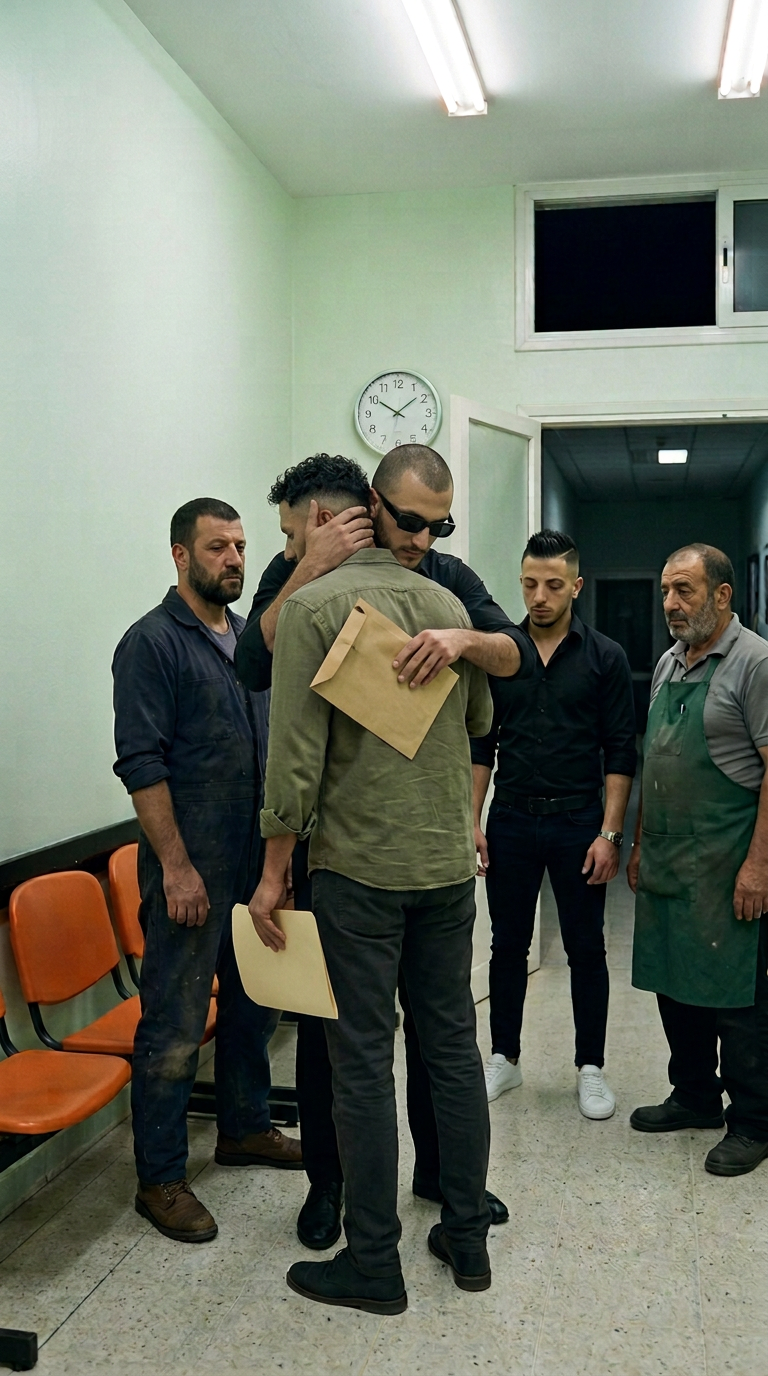
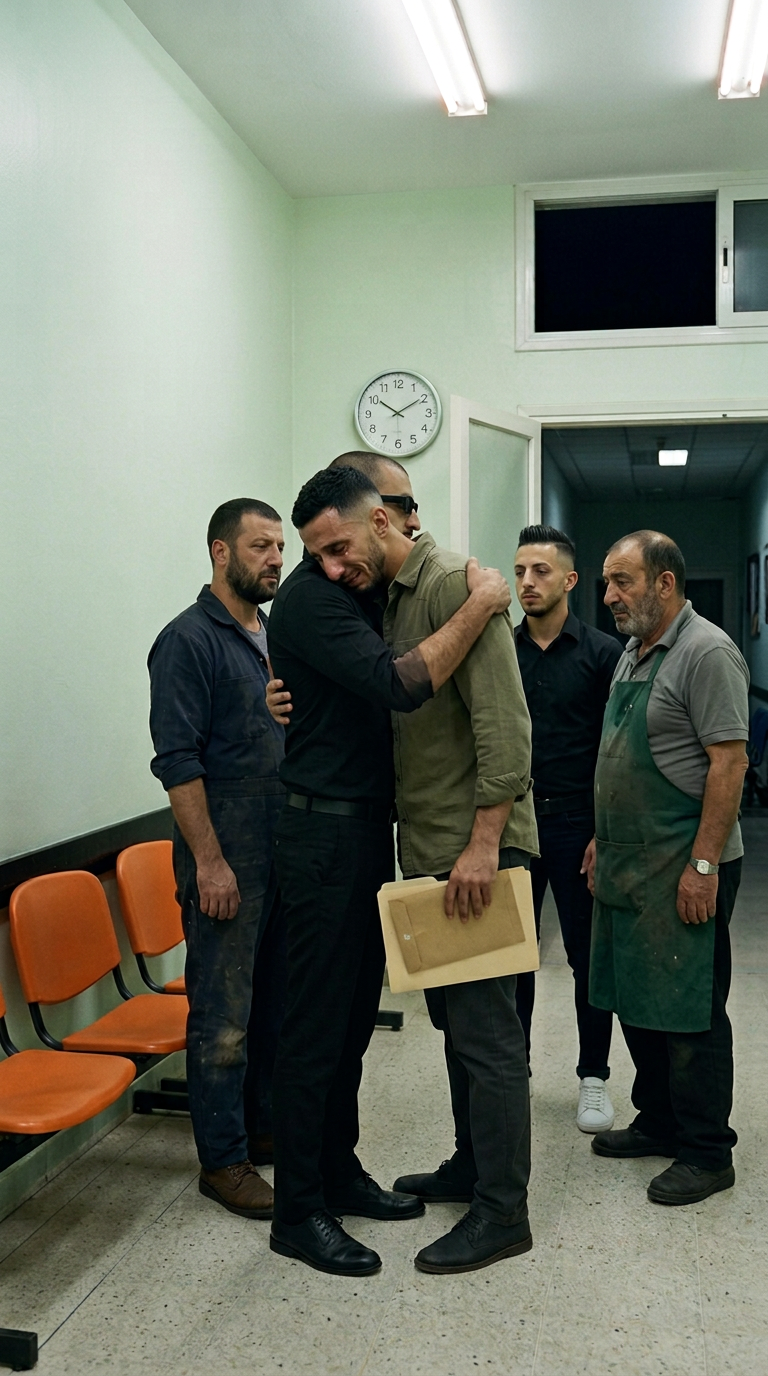
Scene 11 emotional upgrade: Youssef hug -> Uncle Hamza hug, Amin holding both envelopes in one hand + tearfulDarija prompt

diff --git a/SOCIAL_DRAMA/EL_SHEDDA_TBEYEN_ERDJAL/03_FLOW_PROMPTS/PROMPT_13_SCENE_11_OMNI_POLICY_SAFE.md b/SOCIAL_DRAMA/EL_SHEDDA_TBEYEN_ERDJAL/03_FLOW_PROMPTS/PROMPT_13_SCENE_11_OMNI_POLICY_SAFE.md
@@ -1,5 +1,5 @@
 # 🎬 PROMPT 13 — SCENE 11 (OMNI 1.1 FLASH FIXED · POLICY-SAFE)
-## THE EMBRACE — Five Brothers in the Waiting Room
+## THE EMBRACE — From Youssef's Hug to Uncle Hamza's Fatherly Embrace
 
 | البند | الإعداد المعتمد |
 |---|---|
@@ -10,32 +10,37 @@
 | **FIRST FRAME** | `02_SCENES/SCENE_11/S11a_THE_EMBRACE_FIXED.png` |
 | **LAST FRAME** | `02_SCENES/SCENE_11/S11b_FIVE_MEN_FIXED.png` |
 
-> ✅ **قفل الكاميرا والتمثيل والديكور:** نفس قاعة الانتظار المعتمدة من المشهد 09 (`SET LOCK` بدون أي قلب أو نوافذ خارجية)، زاوية تريپود واحدة ثابتة بالكامل بدون قفزات، وجه أمين مدفون في كتف يوسف بعيداً عن العدسة طيلة الـ8 ثوانٍ، نظارات يوسف المستطيلة السوداء ثابتة فوق عينيه، ورامي يضع يده الأخوية على كتف أمين بينما يمسح عمي حمزة دمعته في صمت.
+> ✅ **قفل التمثيل والركور البصري:**
+> - **الإطار الأول (`S11a`):** يوسف يعانق أمين بقوة في وسط قاعة الانتظار وأمين يبكي متأثراً فوق كتف يوسف.
+> - **الإطار الأخير (`S11b`):** يوسف يتنحّى خطوة لليسار بجانب رامي، ويدخل **عمي حمزة** ليعانق أمين بحنان أبوي شديد.
+> - **ركور الظرفين بيد واحدة:** أمين ممسك بيد واحدة طيلة المشهد بالملف الطبي الفاتح وفوقه الظرف البني المغلق الذي استلمه من يوسف في المشهد 10.
+> - **الأداء التمثيلي والصوتي:** أمين يتكلم وهو يبكي بصوت مخنوق بالدموع والشهقات الخفيفة بدون أي موسيقى خلفية.
 
 ---
 
 ## 📋 البرومبت الجاهز للّصق مباشرة في Google Flow
 
 ```text
-Single continuous, unbroken shot with a completely static, locked-off tripod camera from start to finish. No scene cuts, no pans, and no zooms. Vertical 9:16, 8 seconds, 24fps. Photorealistic live-action Algerian family hospital drama shot on 35mm Cinestill 800T film stock inside a pale-green hospital waiting room at night under overhead fluorescent tubes, natural skin pores, organic film grain, zero beauty filters.
+Single continuous, unbroken shot with a completely static, locked-off tripod camera from start to finish. No scene cuts, no pans, and no zooms. Vertical 9:16, 8 seconds, 24fps. Photorealistic live-action Algerian family hospital drama shot on 35mm Cinestill 800T film stock inside a pale-green hospital waiting room at night under glowing overhead fluorescent tubes, authentic skin pores, real glistening tears, organic film grain, zero beauty filters.
 
 FRAME AND SET LOCK:
 Animate smoothly in one unbroken take from <FIRST_FRAME> to <LAST_FRAME>. Keep the blank pale-green hospital walls (zero posters, zero text), the round analog wall clock on the back wall, the orange plastic waiting chairs along the left wall, the open white-framed frosted-glass clinic door leading to the dark hospital corridor on the right, and the speckled terrazzo floor 100% locked in place.
 
-CHARACTER AND GAZE LOCK:
+CHARACTER, PROP, AND GAZE LOCK:
 Medium-full group shot of five Algerian men; the camera is an invisible observer — strictly zero eye contact with the lens by anyone.
-- CENTER EMBRACE: YOUSSEF (very short dark buzz cut, black rectangular sunglasses kept permanently on over his eyes, black shirt and trousers) holds AMIN (short natural curly black hair on top with clean mid-high taper skin-fade, worn olive-green long-sleeve button-up shirt, dark charcoal trousers) tightly in a brotherly hug; Amin's face stays completely buried against Youssef's shoulder away from the camera from start to finish, holding his plain blank manila medical folder in his lowered left hand, while Youssef's right hand cradles the back of Amin's neck and Youssef's left hand presses the sealed brown kraft A4 envelope flat against Amin's upper back.
-- FLANKING FRIENDS: RAMI on the left (dark-blue mechanic coveralls), KARIM on the right-center (spiky fade hair, black button-up shirt, black jeans, white sneakers), and UNCLE HAMZA on the far right (balding older man with grey beard, grey polo shirt, dark-green work apron).
+- AMIN (worn olive-green long-sleeve button-up shirt, dark charcoal trousers, short curly black hair on top with clean mid-high taper skin-fade, short trimmed black chin beard): weeping deeply with glistening tears and trembling shoulders, holding BOTH items stacked together in ONE single lowered hand throughout the entire shot — his beige manila medical folder and the smaller sealed brown kraft A4 envelope on top of it (zero text, zero visible banknotes).
+- YOUSSEF (black rolled-sleeve button-up shirt, black trousers, short dark buzz cut, black rectangular sunglasses kept permanently on over his eyes in every frame).
+- UNCLE HAMZA (balding older man with short grey beard, grey polo shirt, worn dark-green work apron), RAMI on the left (dark-blue mechanic coveralls), and KARIM on the right (black button-up shirt, black jeans, white sneakers).
 
-TIMING AND PHYSICAL ACTION (8 SECONDS, SINGLE CONTINUOUS SHOT):
-[0.0s–2.4s] Starting from <FIRST_FRAME>, Youssef holds Amin closely in a tight brotherly embrace, cradling the back of Amin's neck gently with his right hand while ONLY Youssef speaks softly in a warm Algerian Darija male voice:
+TIMING AND EMOTIONAL PHYSICAL ACTION (8 SECONDS, SINGLE CONTINUOUS SHOT):
+[0.0s–3.5s] Starting from <FIRST_FRAME>, Youssef holds the weeping Amin tightly in a brotherly embrace in the center of the room. Youssef speaks softly first in a warm Algerian Darija male voice:
 "ما تقول والو يا خويا… حنا خاوتك."
-[2.4s–4.6s] With his face still completely buried in Youssef's shoulder (back and shoulders trembling slightly with quiet emotion, face never turning toward the lens), ONLY Amin speaks in a muffled, choked Algerian Darija male voice:
-"علاش ما قلتوليش من اللول؟"
-[4.6s–7.4s] As Rami raises his right arm on the left and rests his right hand warmly onto Amin's left shoulder, Karim bows his chin slightly lower looking at the floor, and Uncle Hamza on the far right raises his right hand gently to wipe a tear beneath his eye, ONLY Youssef answers quietly in Algerian Darija:
-"خاطر نعرفو نيفك، لو كان قلنالك ما تقبلش."
-[7.4s–8.0s] Quiet emotional breathing in complete vocal silence as all five brothers hold the exact solemn tableau of <LAST_FRAME>.
+Immediately, while still crying against Youssef's shoulder with real tears, trembling breath, and choked sobs, Amin speaks as he cries in a broken, tear-choked Algerian Darija male voice:
+"ربي يحفظكم… علاش ما قلتوليش من اللول؟"
+[3.5s–7.3s] Youssef gently pats Amin's shoulder, releases the hug, and steps half a pace back to the left beside Rami, watching warmly behind his black sunglasses. At the exact same moment, Uncle Hamza steps forward from the right and pulls the crying Amin into a tight, tender fatherly embrace, wrapping both arms warmly around Amin's shoulders as Amin turns into Uncle Hamza's chest while keeping both the manila folder and sealed brown envelope held together in one lowered hand, smoothly settling into <LAST_FRAME>. As Karim bows his head respectfully on the right, ONLY Uncle Hamza speaks with tearful fatherly tenderness in Algerian Darija:
+"أرواح لحضني يا وليدي… مريم بنتنا كامل وحنا معاك للخر."
+[7.3s–8.0s] Quiet emotional breathing and a soft muffled sniffle from Amin in Uncle Hamza's fatherly embrace, holding the exact solemn framing of <LAST_FRAME> with zero eye contact with the camera.
 
 SOUND DESIGN:
-Natural Algerian Darija speech (with Amin's single line sounding naturally muffled against Youssef's shoulder), soft fabric rustle of the embrace, gentle touch on shoulder, quiet emotional breath, subtle night hospital fluorescent hum. Strictly no background music, no smiling, no subtitles, no wall text, and no watermarks.
+Authentic Algerian Darija emotional dialogue with Amin's voice genuinely trembling and breaking through quiet tears and muffled sobs, soft rustle of shirts and paper folders during the transition from Youssef's hug to Uncle Hamza's hug, gentle footsteps on terrazzo floor, quiet night hospital fluorescent hum. Strictly no background music, no smiling, no subtitles, no wall text, and no watermarks.
 ```
